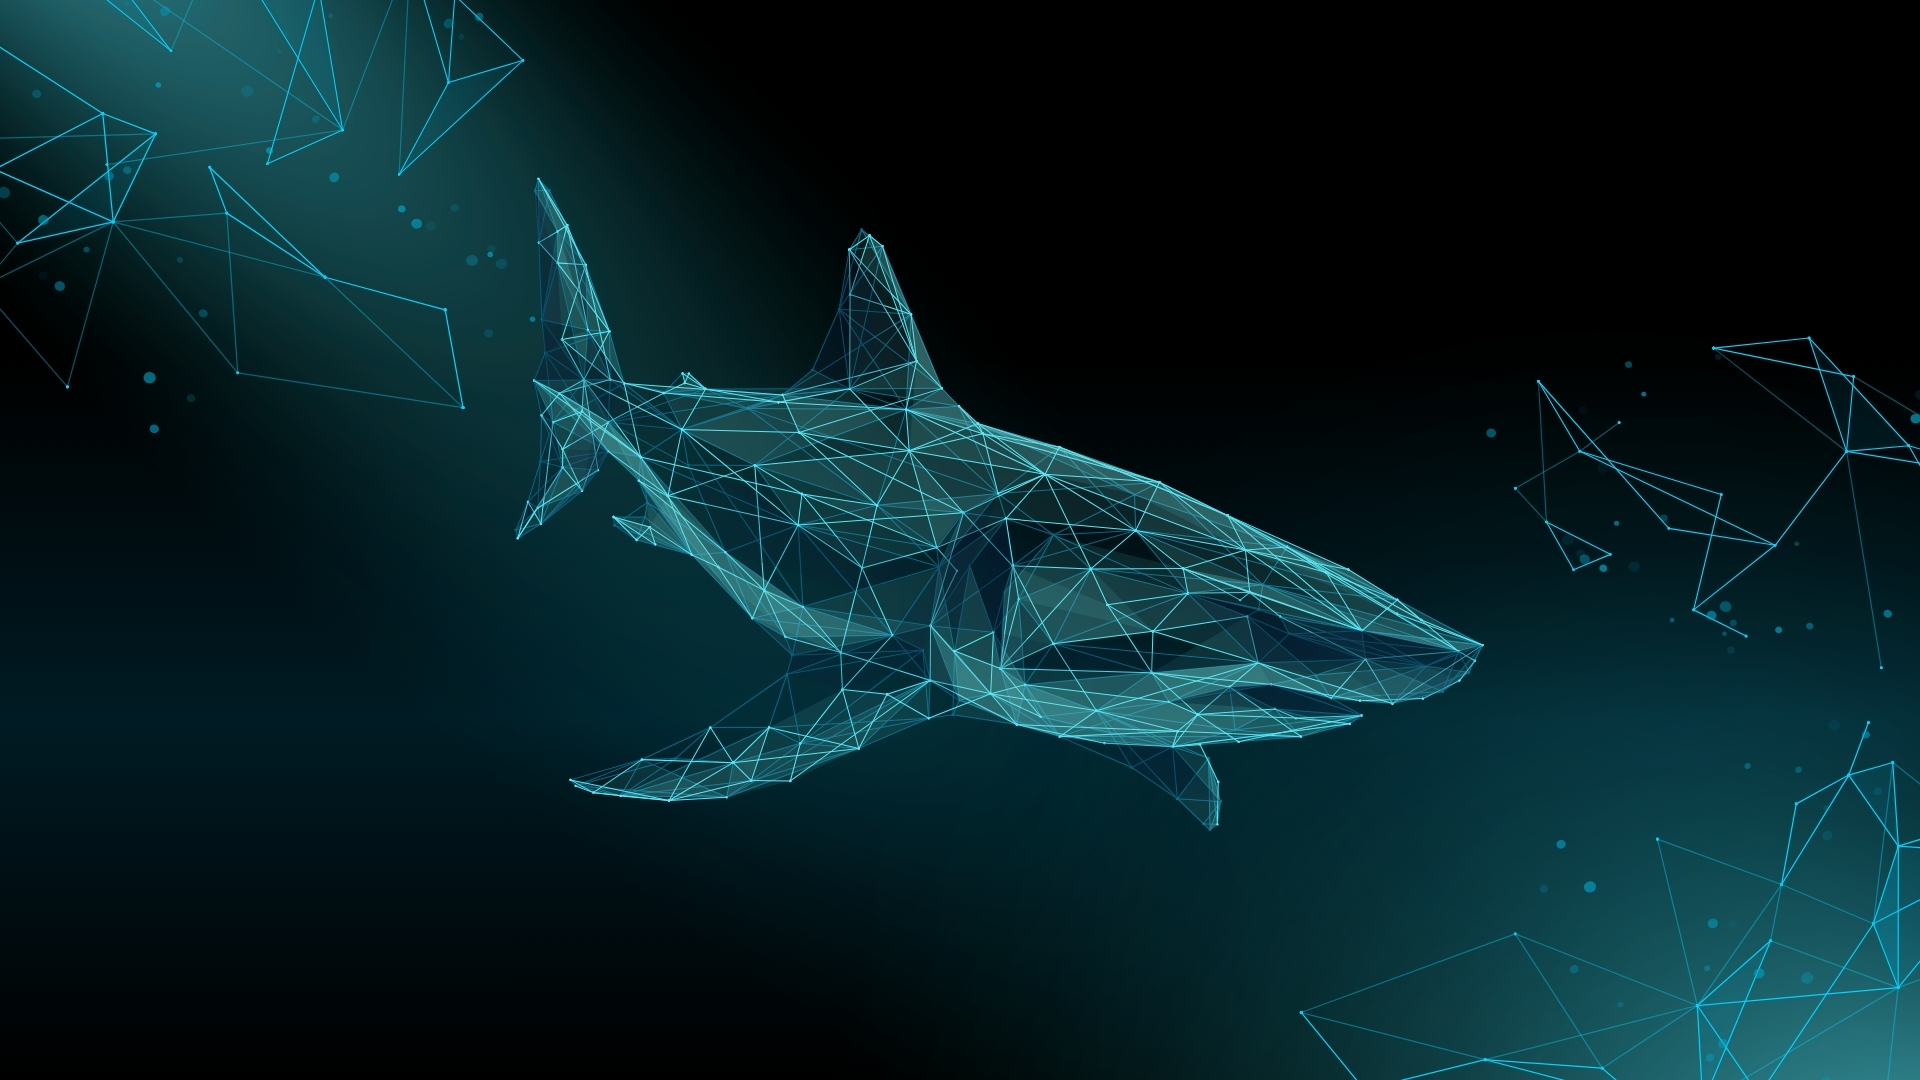
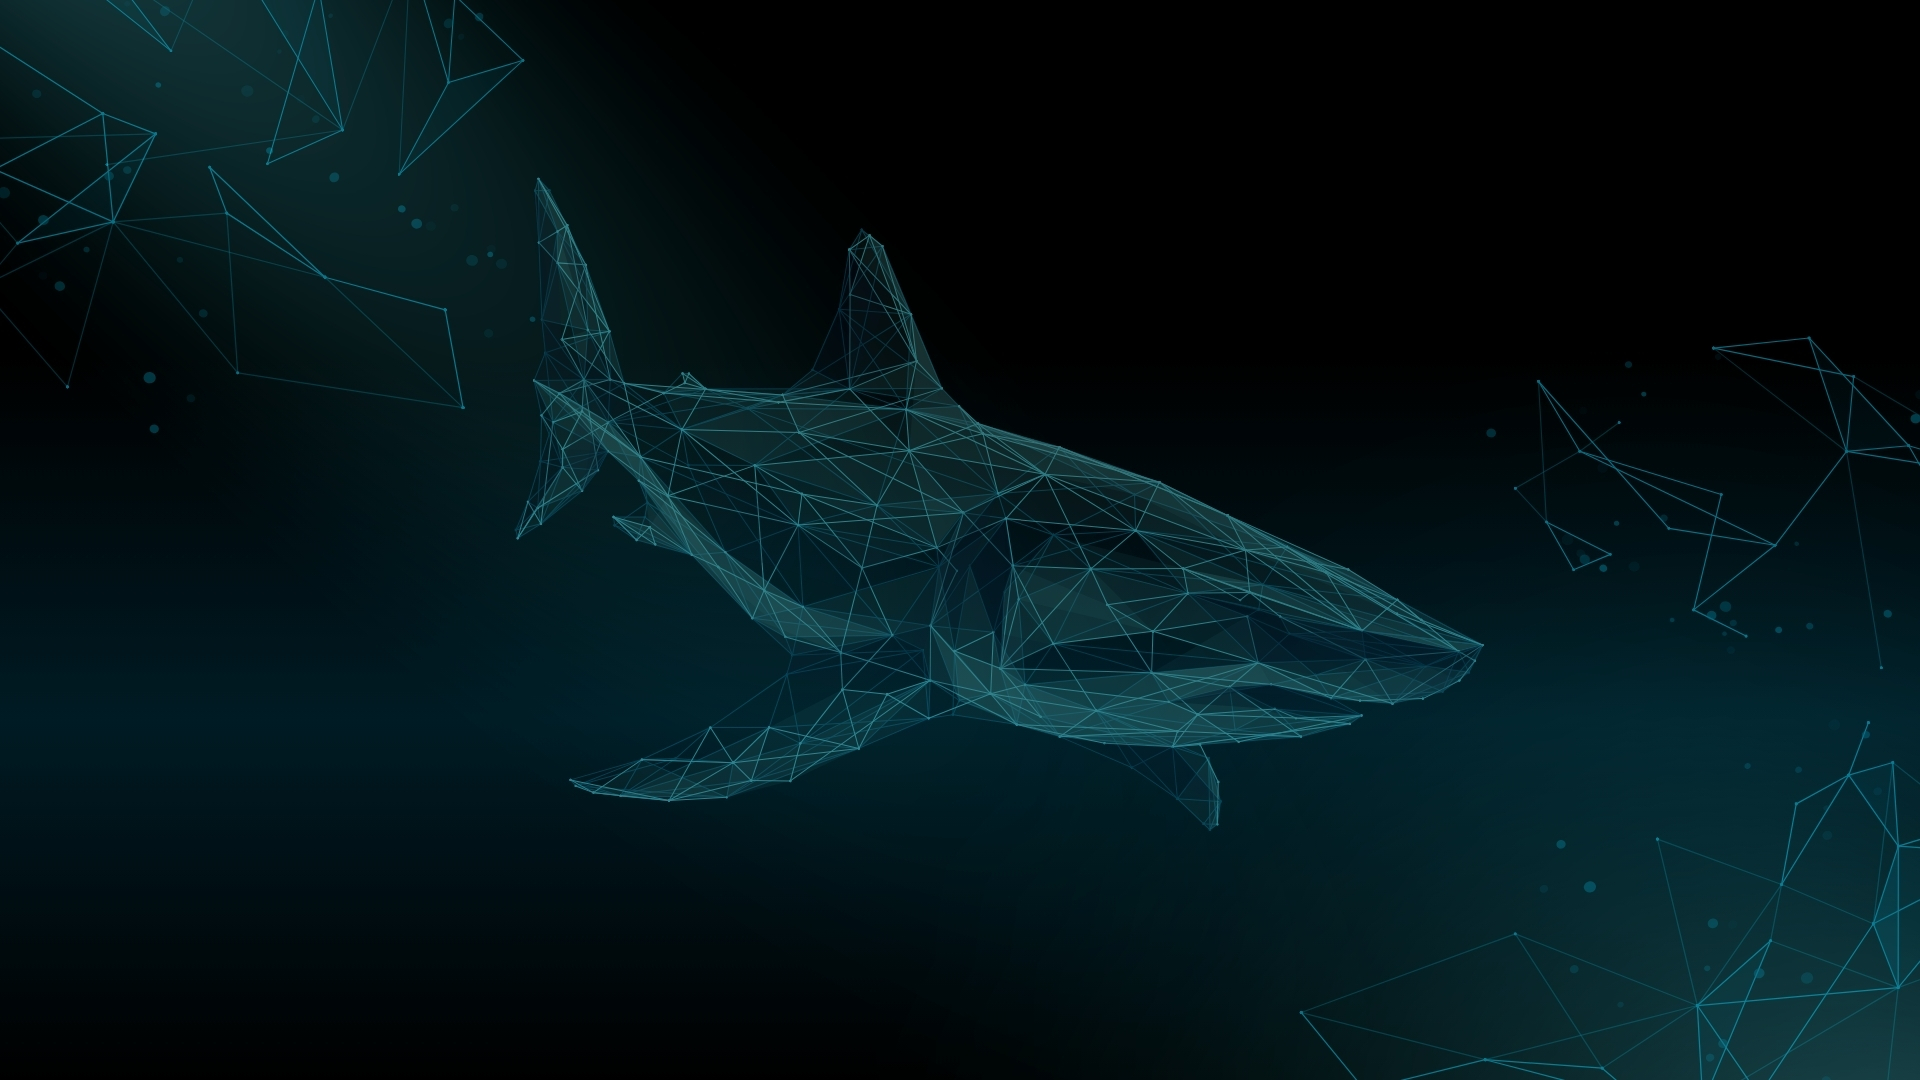
Removed label and added aria label to input instead
added button with id input button for usability

diff --git a/index.html b/index.html
@@ -20,8 +20,8 @@
             <p>Check Addresses Cabinets and MST Connections</p>
         </div>
             <form id="search-bar">
-                <label for="address-input">Check Address:</label>
-                <input type="text" id="address-input" placeholder="Enter Address">
+                <input type="text" id="address-input" placeholder="Enter Address" aria-label="check-address">
+                <button id="input-button">Search</button>
             </form>
     </main>
 </body>

diff --git a/style.css b/style.css
@@ -1,4 +1,9 @@
 /* Universal Styles */
+
+body {
+    background-image: url(./media/images/search_background_shark.jpg);
+}
+
 main {
     margin: 0;
     min-height: 80vh;
@@ -6,6 +11,7 @@ main {
     flex-direction: column;
     justify-content: space-evenly;
     align-items: center;
+    color: white;
 }
 
 /* Titles Styling */
